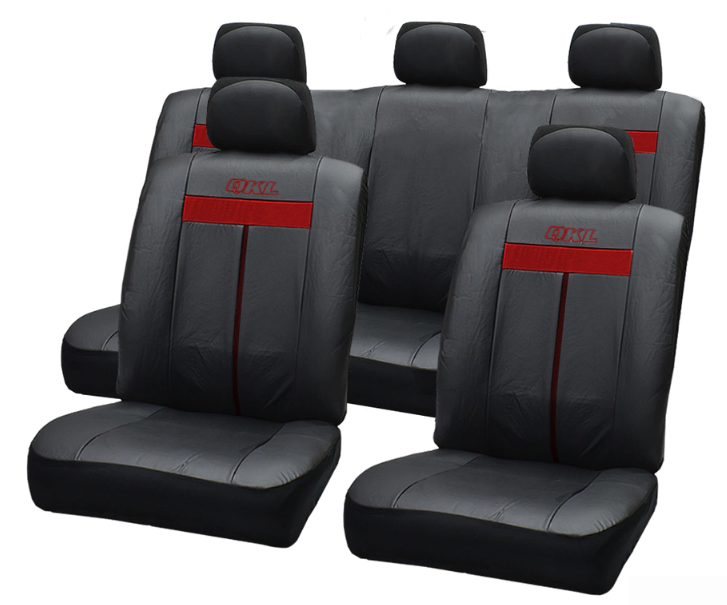
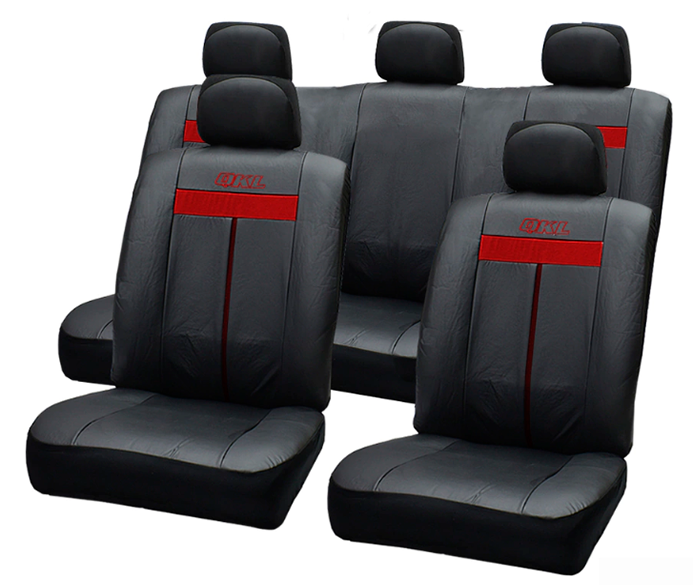
javascript terminado

diff --git a/styles/style.css b/styles/style.css
@@ -220,22 +220,26 @@ p {
 	margin-left: -45px;
 }
 
-.imgart2 {
-	height: 100%;
-	margin-left: -60px;
-	margin-top: -30px;
+
+.imgart2{
+	height: 90%;
+	margin-left: -50px;
 }
+
+#imgchanget{
+	height: 90%;
+	margin-left: -80px;
+	margin-top: 27px;
+}
+
 
 .imgart3 {
-	height: 100%;
-	margin-left: -80px;
+	width: 230%;
+	margin-left: -90px;
+	margin-top: 40px;
 }
 
-#imgchangec{
-	height: 100%;
-	margin-left: -80px;
-	margin-top: -80px;
-}
+
 
 
 .colorselect{
